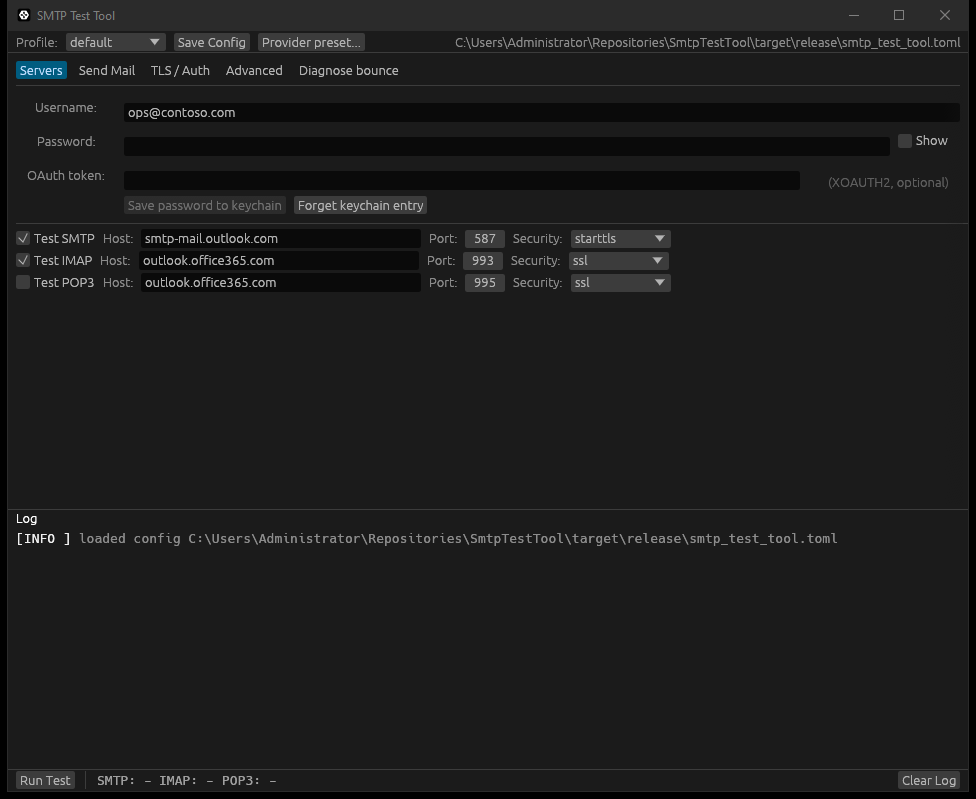
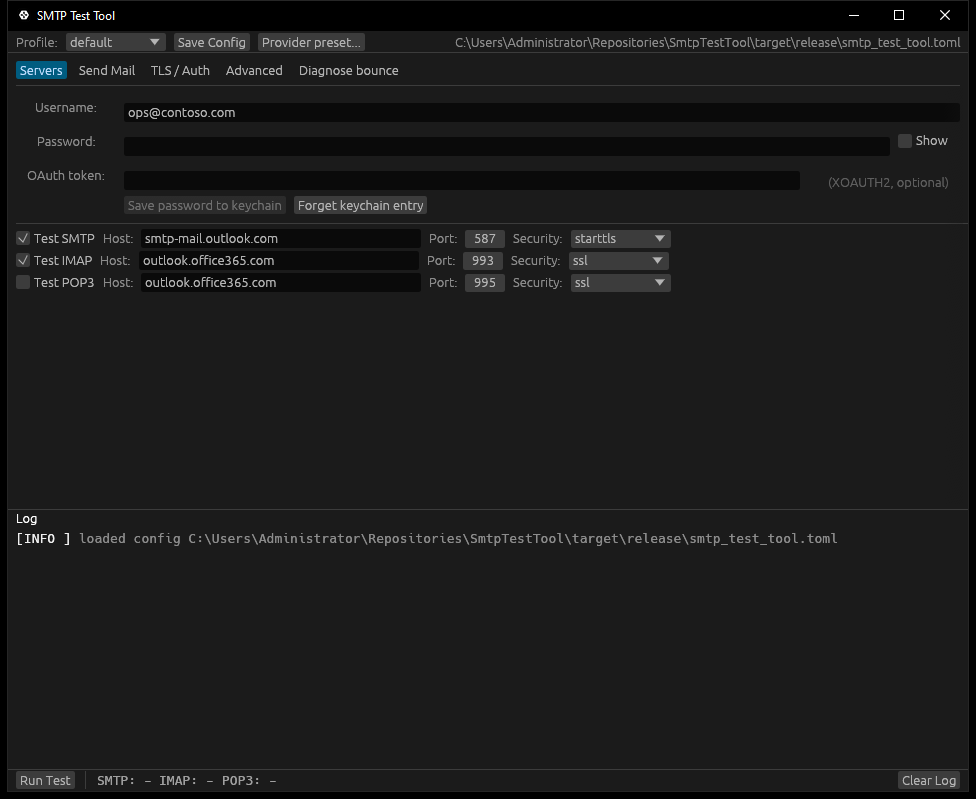
fix(tools): screenshot.ps1 captures full screen + crops on GL fallback
Root cause of the empty-PNG regression that has dogged this repo
since v0.1.2: PrintWindow returns blank for the eframe glow GL
surface AND, surprisingly, a rect-restricted CopyFromScreen also
returns blank on Windows 11 + DWM under certain DPI / monitor
configurations.  A *full virtual-screen* CopyFromScreen, however,
gets the composited desktop bitmap fine - the GL surface IS in
there, you just have to ask for the whole thing.

Update the fallback path to snapshot the entire virtual screen
(SystemInformation.VirtualScreen) and crop to the window's
screen-space rect in software.  System.Drawing.Bitmap.DrawImage
keeps the operation lossless.

Add a new -Locale parameter that appends 'locale = "…"' to the
staged config so we can regenerate non-Latin screenshots in one
command.  Used to capture docs/screenshots/gui-{zh,ja,ar}.png as
proof that src/fonts.rs picks up Microsoft YaHei UI / Yu Gothic UI
/ Segoe UI Arabic respectively on a stock Windows install.

Also refresh the v0.1.4 dark + light screenshots so the README
finally shows the Diagnose-bounce tab and Language picker added
in v0.1.3.

Changed region(s): [[0.0, 0.0, 1.0, 0.0601]]

diff --git a/README.md b/README.md
@@ -26,6 +26,13 @@ contrast on the elements where colour carries information.
 |------|-------|
 | ![Dark theme](docs/screenshots/gui-dark.png) | ![Light theme](docs/screenshots/gui-light.png) |
 
+Non-Latin locales pick up an OS-installed font automatically (see
+[Languages](#languages) for the discovery story).  Example renders:
+
+| Chinese (`zh`) | Japanese (`ja`) | Arabic (`ar`) |
+|---|---|---|
+| ![zh](docs/screenshots/gui-zh.png) | ![ja](docs/screenshots/gui-ja.png) | ![ar](docs/screenshots/gui-ar.png) |
+
 ## Languages
 
 The GUI, the CLI prompts, and every diagnostic hint can be displayed